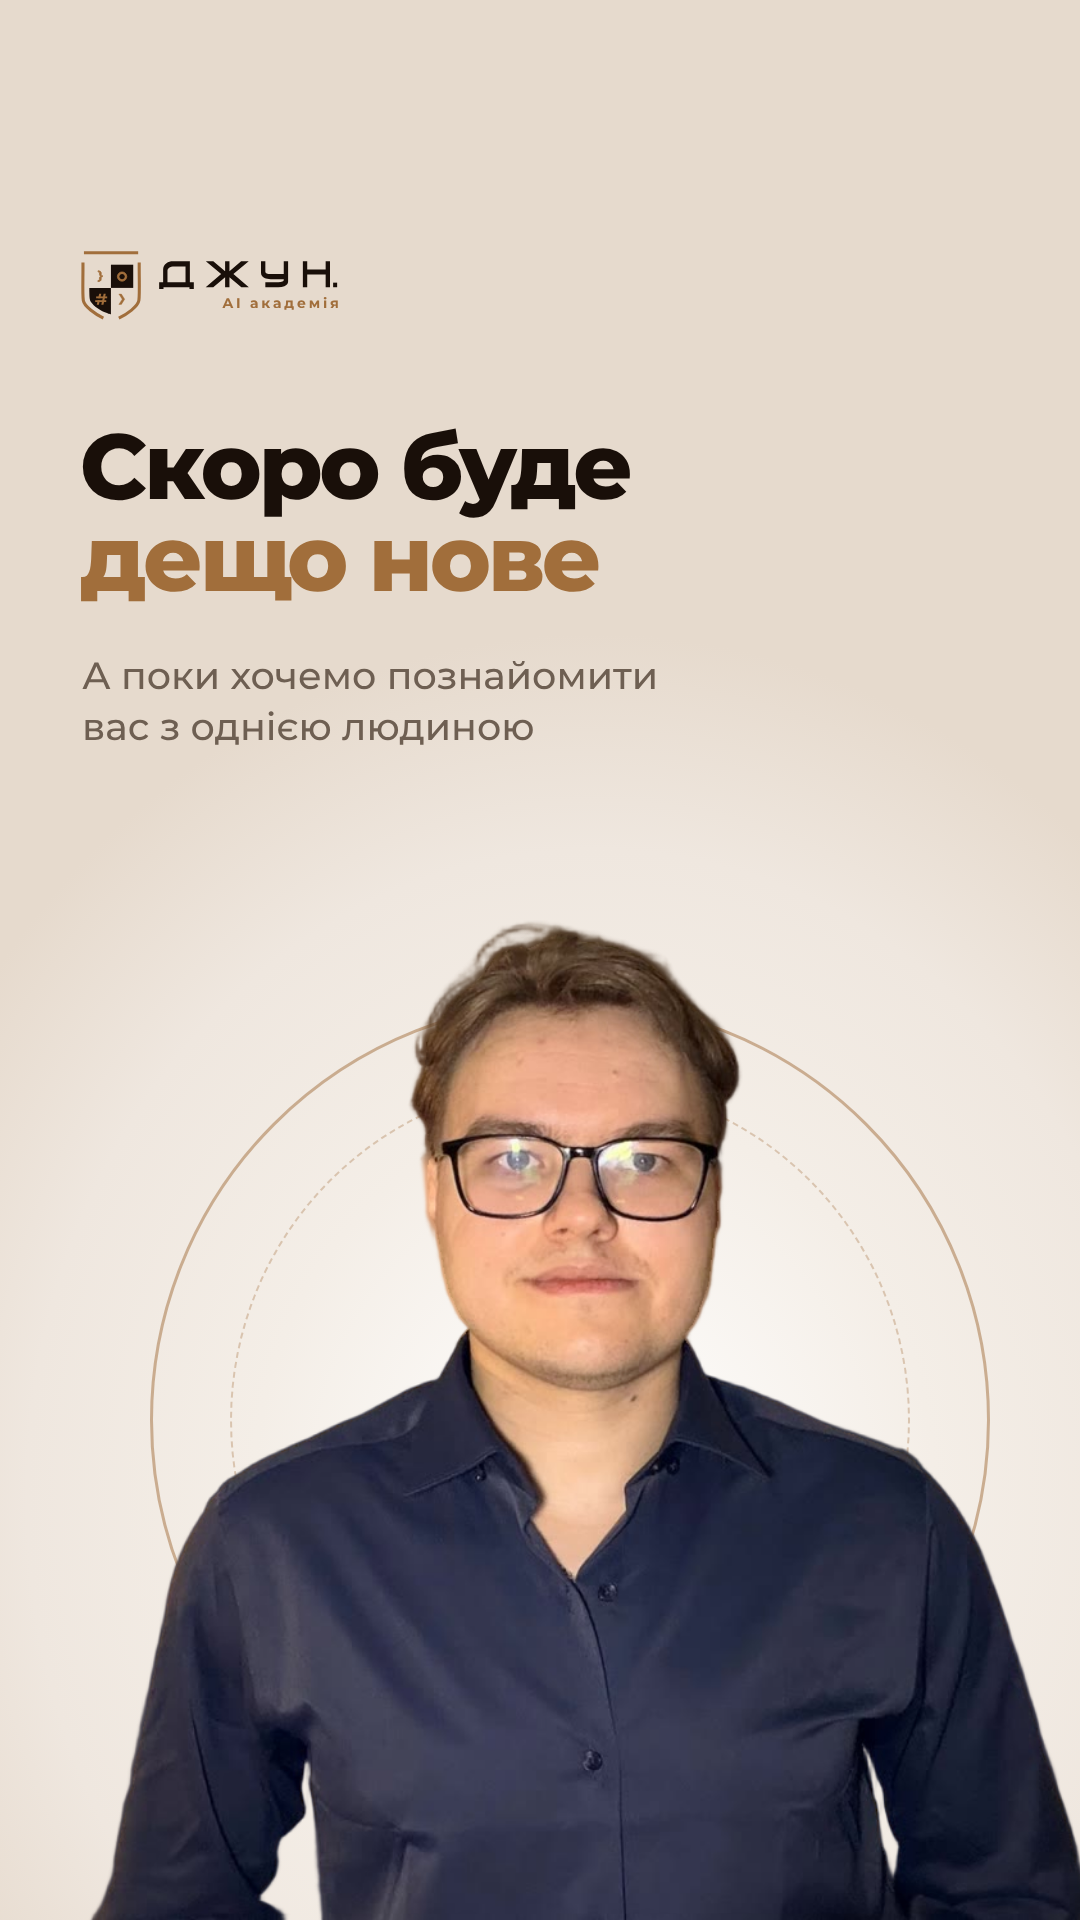
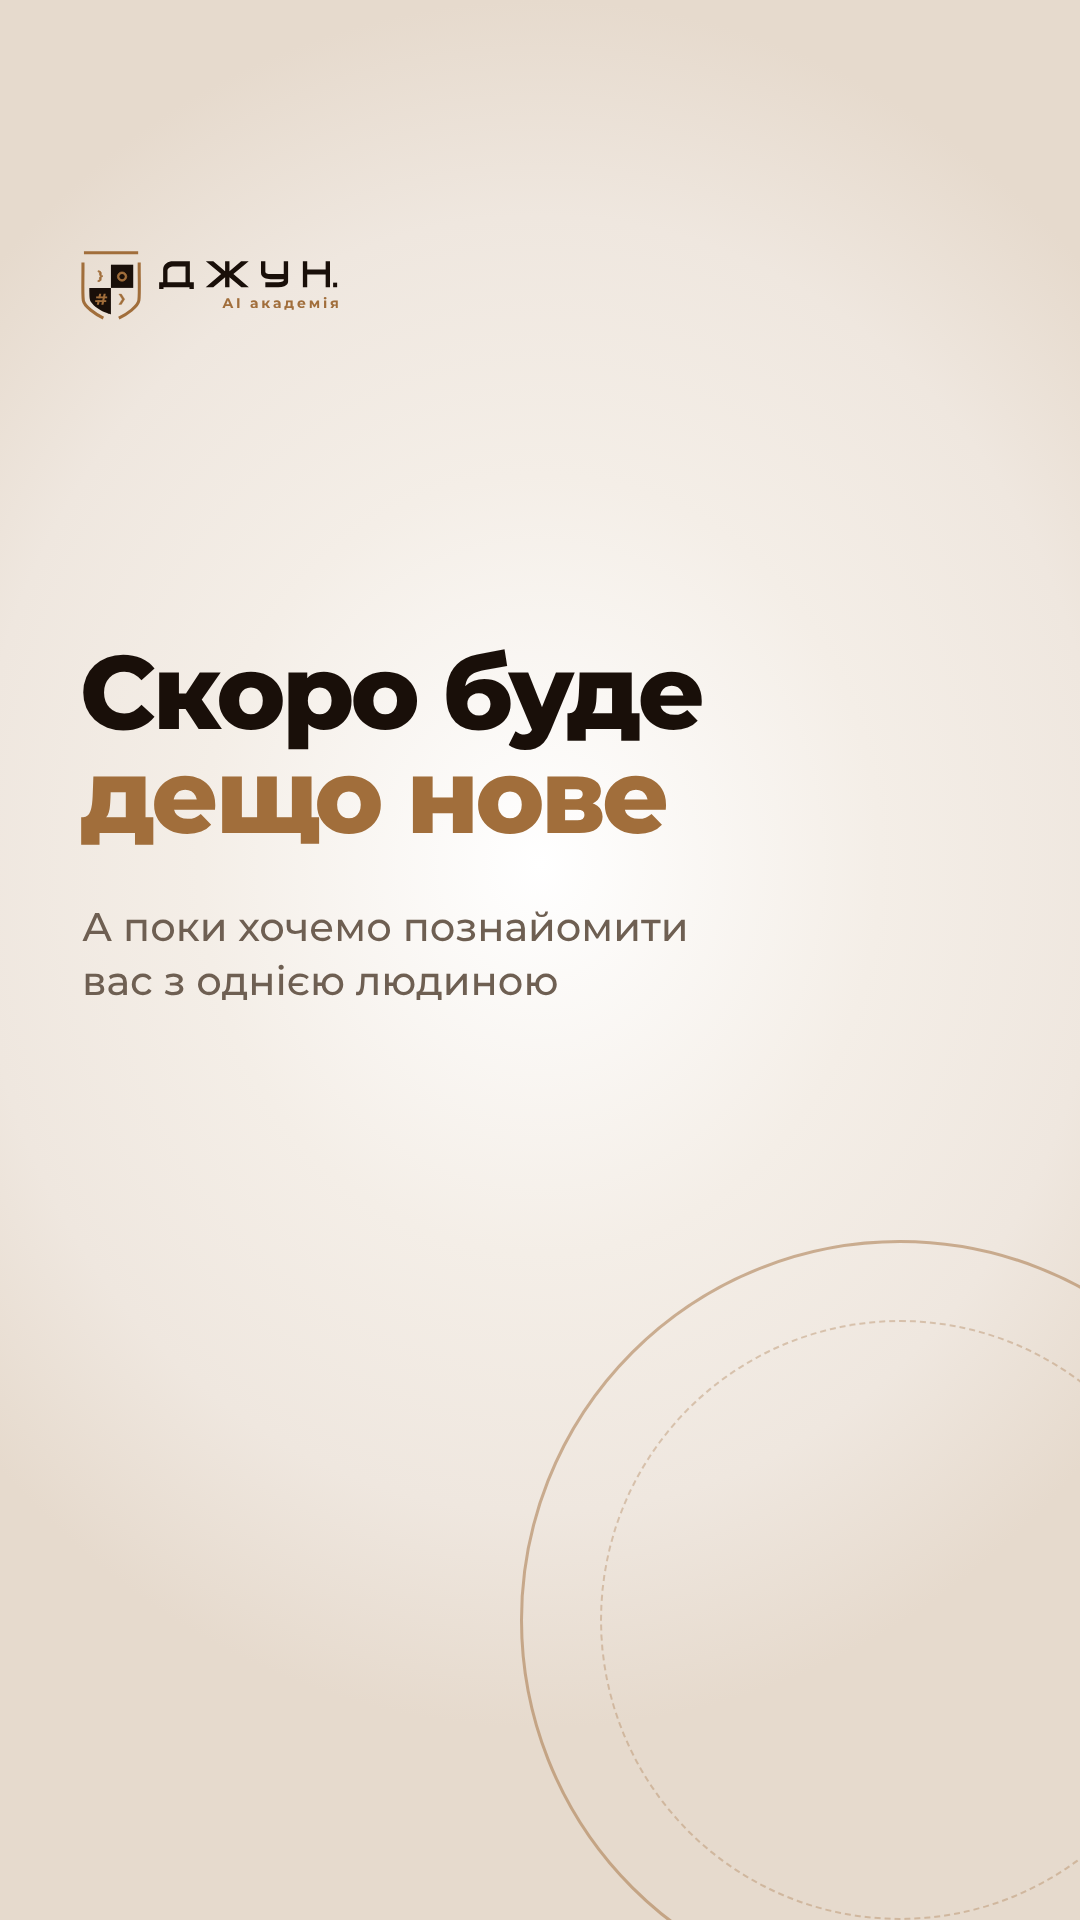
Teaser story: text only, no photo
Claude-Session: https://claude.ai/code/session_01F8vpXYV6V72iEGbNVpHMN7

diff --git a/2026-10-28_maksym_story/story_text.html b/2026-10-28_maksym_story/story_text.html
@@ -1,17 +1,17 @@
 <!doctype html><meta charset="utf-8"><style>
 @font-face{font-family:M;src:url(Montserrat.ttf)}@font-face{font-family:J;src:url(JetBrainsMono.ttf)}
 *{margin:0;box-sizing:border-box}body{width:1080px;height:1920px;position:relative;overflow:hidden;font-family:M}
-.bg{position:absolute;inset:0;background:radial-gradient(70% 45% at 55% 78%,#FFFFFF 0%,#F4EEE7 45%,#EFE7DF 75%,#E6DACD 100%)}
-.ring{position:absolute;left:150px;top:1000px;width:840px;height:840px;border-radius:50%;border:3px solid rgba(161,110,59,.5)}
-.ring2{position:absolute;left:230px;top:1080px;width:680px;height:680px;border-radius:50%;border:2px dashed rgba(161,110,59,.32)}
+.bg{position:absolute;inset:0;background:radial-gradient(70% 45% at 50% 45%,#FFFFFF 0%,#F4EEE7 45%,#EFE7DF 75%,#E6DACD 100%)}
+.ring{position:absolute;left:520px;top:1240px;width:760px;height:760px;border-radius:50%;border:3px solid rgba(161,110,59,.5)}
+.ring2{position:absolute;left:600px;top:1320px;width:600px;height:600px;border-radius:50%;border:2px dashed rgba(161,110,59,.32)}
 .logo{position:absolute;top:250px;left:80px;display:flex;align-items:center;gap:16px}
 .logo .w{display:flex;flex-direction:column;align-items:flex-end}.logo small{font:700 14px/1 M;letter-spacing:.2em;color:#A16E3B;margin-top:7px;margin-right:-.2em}
-h1{position:absolute;left:80px;right:80px;top:420px;font-weight:800;font-size:92px;line-height:1;letter-spacing:-.035em;color:#190F09}
+h1{position:absolute;left:80px;right:80px;top:640px;font-weight:800;font-size:104px;line-height:1;letter-spacing:-.035em;color:#190F09}
 h1 em{font-style:normal;color:#A16E3B}
-p{position:absolute;left:82px;right:120px;top:650px;font:500 38px/1.35 M;color:#6E5F52}
+p{position:absolute;left:82px;right:120px;top:900px;font:500 40px/1.35 M;color:#6E5F52}
 .person{position:absolute;left:50%;transform:translateX(-45%);bottom:0;height:1000px}
 </style>
 <div class="bg"></div><div class="ring"></div><div class="ring2"></div>
 <div class="logo"><img src="crest.svg" style="height:70px"><div class="w"><img src="letters.svg" style="height:29px"><small>AI академія</small></div></div>
 <h1>Скоро буде<br><em>дещо нове</em></h1><p>А поки хочемо познайомити<br>вас з однією людиною</p>
-<img class="person" src="cutout.png">
+

diff --git a/2026-10-28_maksym_story/story.html b/2026-10-28_maksym_story/story.html
@@ -1,17 +1,17 @@
 <!doctype html><meta charset="utf-8"><style>
 @font-face{font-family:M;src:url(Montserrat.ttf)}@font-face{font-family:J;src:url(JetBrainsMono.ttf)}
 *{margin:0;box-sizing:border-box}body{width:1080px;height:1920px;position:relative;overflow:hidden;font-family:M}
-.bg{position:absolute;inset:0;background:radial-gradient(70% 45% at 55% 78%,#FFFFFF 0%,#F4EEE7 45%,#EFE7DF 75%,#E6DACD 100%)}
-.ring{position:absolute;left:150px;top:1000px;width:840px;height:840px;border-radius:50%;border:3px solid rgba(161,110,59,.5)}
-.ring2{position:absolute;left:230px;top:1080px;width:680px;height:680px;border-radius:50%;border:2px dashed rgba(161,110,59,.32)}
+.bg{position:absolute;inset:0;background:radial-gradient(70% 45% at 50% 45%,#FFFFFF 0%,#F4EEE7 45%,#EFE7DF 75%,#E6DACD 100%)}
+.ring{position:absolute;left:520px;top:1240px;width:760px;height:760px;border-radius:50%;border:3px solid rgba(161,110,59,.5)}
+.ring2{position:absolute;left:600px;top:1320px;width:600px;height:600px;border-radius:50%;border:2px dashed rgba(161,110,59,.32)}
 .logo{position:absolute;top:250px;left:80px;display:flex;align-items:center;gap:16px}
 .logo .w{display:flex;flex-direction:column;align-items:flex-end}.logo small{font:700 14px/1 M;letter-spacing:.2em;color:#A16E3B;margin-top:7px;margin-right:-.2em}
-h1{position:absolute;left:80px;right:80px;top:420px;font-weight:800;font-size:92px;line-height:1;letter-spacing:-.035em;color:#190F09}
+h1{position:absolute;left:80px;right:80px;top:640px;font-weight:800;font-size:104px;line-height:1;letter-spacing:-.035em;color:#190F09}
 h1 em{font-style:normal;color:#A16E3B}
-p{position:absolute;left:82px;right:120px;top:650px;font:500 38px/1.35 M;color:#6E5F52}
+p{position:absolute;left:82px;right:120px;top:900px;font:500 40px/1.35 M;color:#6E5F52}
 .person{position:absolute;left:50%;transform:translateX(-45%);bottom:0;height:1000px}
 </style>
 <div class="bg"></div><div class="ring"></div><div class="ring2"></div>
 <div class="logo"><img src="crest.svg" style="height:70px"><div class="w"><img src="letters.svg" style="height:29px"><small>AI академія</small></div></div>
 TEXT
-<img class="person" src="cutout.png">
+

diff --git a/2026-10-28_maksym_story/story_clean.html b/2026-10-28_maksym_story/story_clean.html
@@ -1,17 +1,17 @@
 <!doctype html><meta charset="utf-8"><style>
 @font-face{font-family:M;src:url(Montserrat.ttf)}@font-face{font-family:J;src:url(JetBrainsMono.ttf)}
 *{margin:0;box-sizing:border-box}body{width:1080px;height:1920px;position:relative;overflow:hidden;font-family:M}
-.bg{position:absolute;inset:0;background:radial-gradient(70% 45% at 55% 78%,#FFFFFF 0%,#F4EEE7 45%,#EFE7DF 75%,#E6DACD 100%)}
-.ring{position:absolute;left:150px;top:1000px;width:840px;height:840px;border-radius:50%;border:3px solid rgba(161,110,59,.5)}
-.ring2{position:absolute;left:230px;top:1080px;width:680px;height:680px;border-radius:50%;border:2px dashed rgba(161,110,59,.32)}
+.bg{position:absolute;inset:0;background:radial-gradient(70% 45% at 50% 45%,#FFFFFF 0%,#F4EEE7 45%,#EFE7DF 75%,#E6DACD 100%)}
+.ring{position:absolute;left:520px;top:1240px;width:760px;height:760px;border-radius:50%;border:3px solid rgba(161,110,59,.5)}
+.ring2{position:absolute;left:600px;top:1320px;width:600px;height:600px;border-radius:50%;border:2px dashed rgba(161,110,59,.32)}
 .logo{position:absolute;top:250px;left:80px;display:flex;align-items:center;gap:16px}
 .logo .w{display:flex;flex-direction:column;align-items:flex-end}.logo small{font:700 14px/1 M;letter-spacing:.2em;color:#A16E3B;margin-top:7px;margin-right:-.2em}
-h1{position:absolute;left:80px;right:80px;top:420px;font-weight:800;font-size:92px;line-height:1;letter-spacing:-.035em;color:#190F09}
+h1{position:absolute;left:80px;right:80px;top:640px;font-weight:800;font-size:104px;line-height:1;letter-spacing:-.035em;color:#190F09}
 h1 em{font-style:normal;color:#A16E3B}
-p{position:absolute;left:82px;right:120px;top:650px;font:500 38px/1.35 M;color:#6E5F52}
+p{position:absolute;left:82px;right:120px;top:900px;font:500 40px/1.35 M;color:#6E5F52}
 .person{position:absolute;left:50%;transform:translateX(-45%);bottom:0;height:1000px}
 </style>
 <div class="bg"></div><div class="ring"></div><div class="ring2"></div>
 <div class="logo"><img src="crest.svg" style="height:70px"><div class="w"><img src="letters.svg" style="height:29px"><small>AI академія</small></div></div>
 
-<img class="person" src="cutout.png">
+
